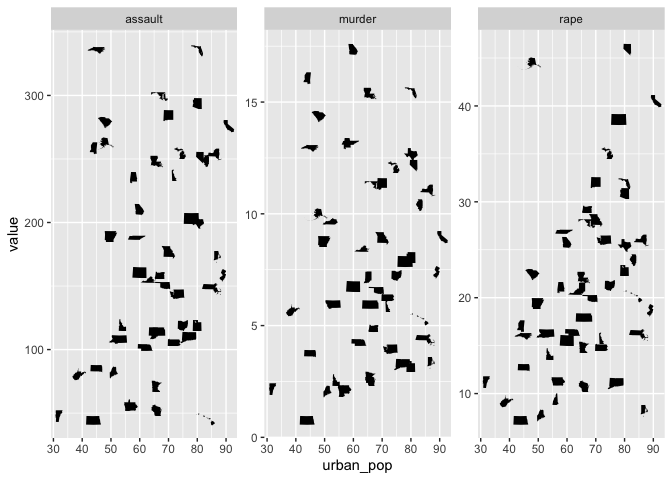
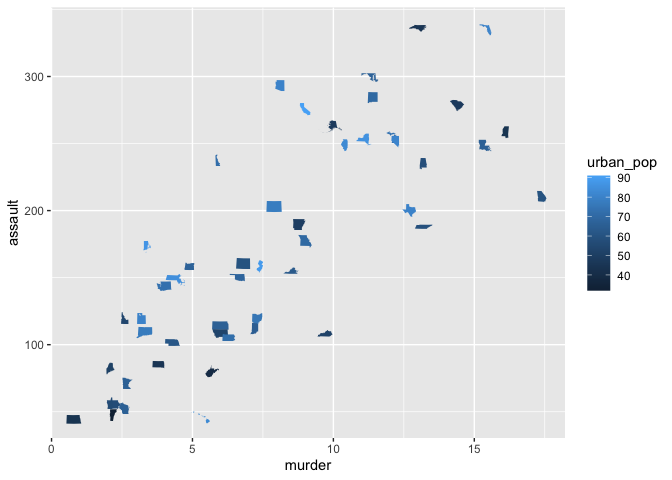
better handling of StateFace font

diff --git a/README.md b/README.md
@@ -6,27 +6,60 @@
 <!-- badges: start -->
 <!-- badges: end -->
 
-The goal of fontscales is to …
+The goal of fontscales is to is to let you use fancy iconographic fonts
+with ease in [ggplot2](https://ggplot2.tidyverse.org/).
 
 ## Installation
 
-You can install the released version of fontscales from
-[CRAN](https://CRAN.R-project.org) with:
+You can install the dev version of fontscales from
+[Github](http://github.com/) with:
 
 ``` r
-install.packages("fontscales")
+require("devtools")
+install_github("tidymodels/fontscales")
 ```
 
 ## StateFace
 
+The [StateFace](https://propublica.github.io/stateface/) font by
+[ProPublica](https://www.propublica.org/) contains the 50 different U.S.
+states as tiny glyphs and can thus be used in data visualizations.
+
+The data set `usa_arrests` represents a data set where this might be
+useful where the `state` variable contains the name of the state
+
 ``` r
 library(fontscales)
+usa_arrests
+#> # A tibble: 50 x 5
+#>    state       urban_pop murder assault  rape
+#>    <chr>           <int>  <dbl>   <int> <dbl>
+#>  1 Alabama            58   13.2     236  21.2
+#>  2 Alaska             48   10       263  44.5
+#>  3 Arizona            80    8.1     294  31  
+#>  4 Arkansas           50    8.8     190  19.5
+#>  5 California         91    9       276  40.6
+#>  6 Colorado           78    7.9     204  38.7
+#>  7 Connecticut        77    3.3     110  11.1
+#>  8 Delaware           72    5.9     238  15.8
+#>  9 Florida            80   15.4     335  31.9
+#> 10 Georgia            60   17.4     211  25.8
+#> # … with 40 more rows
+```
+
+Using `ggplot2` you pass the state name variable to the `label`
+aesthetic and use `geom_stateface()` to draw the states. (This should
+function similary to `geom_text()` or `geom_point()`).
+
+``` r
 library(ggplot2)
 ggplot(usa_arrests, aes(murder, assault, label = state, color = urban_pop)) +
   geom_stateface()
 ```
 
-<img src="man/figures/README-unnamed-chunk-2-1.png" width="100%" />
+<img src="man/figures/README-unnamed-chunk-3-1.png" width="100%" />
+
+And other `ggplot2` functions work as expected
 
 ``` r
 library(tidyr)
@@ -37,4 +70,4 @@ usa_arrests %>%
   facet_wrap(~name, scales = "free_y")
 ```
 
-<img src="man/figures/README-unnamed-chunk-3-1.png" width="100%" />
+<img src="man/figures/README-unnamed-chunk-4-1.png" width="100%" />
